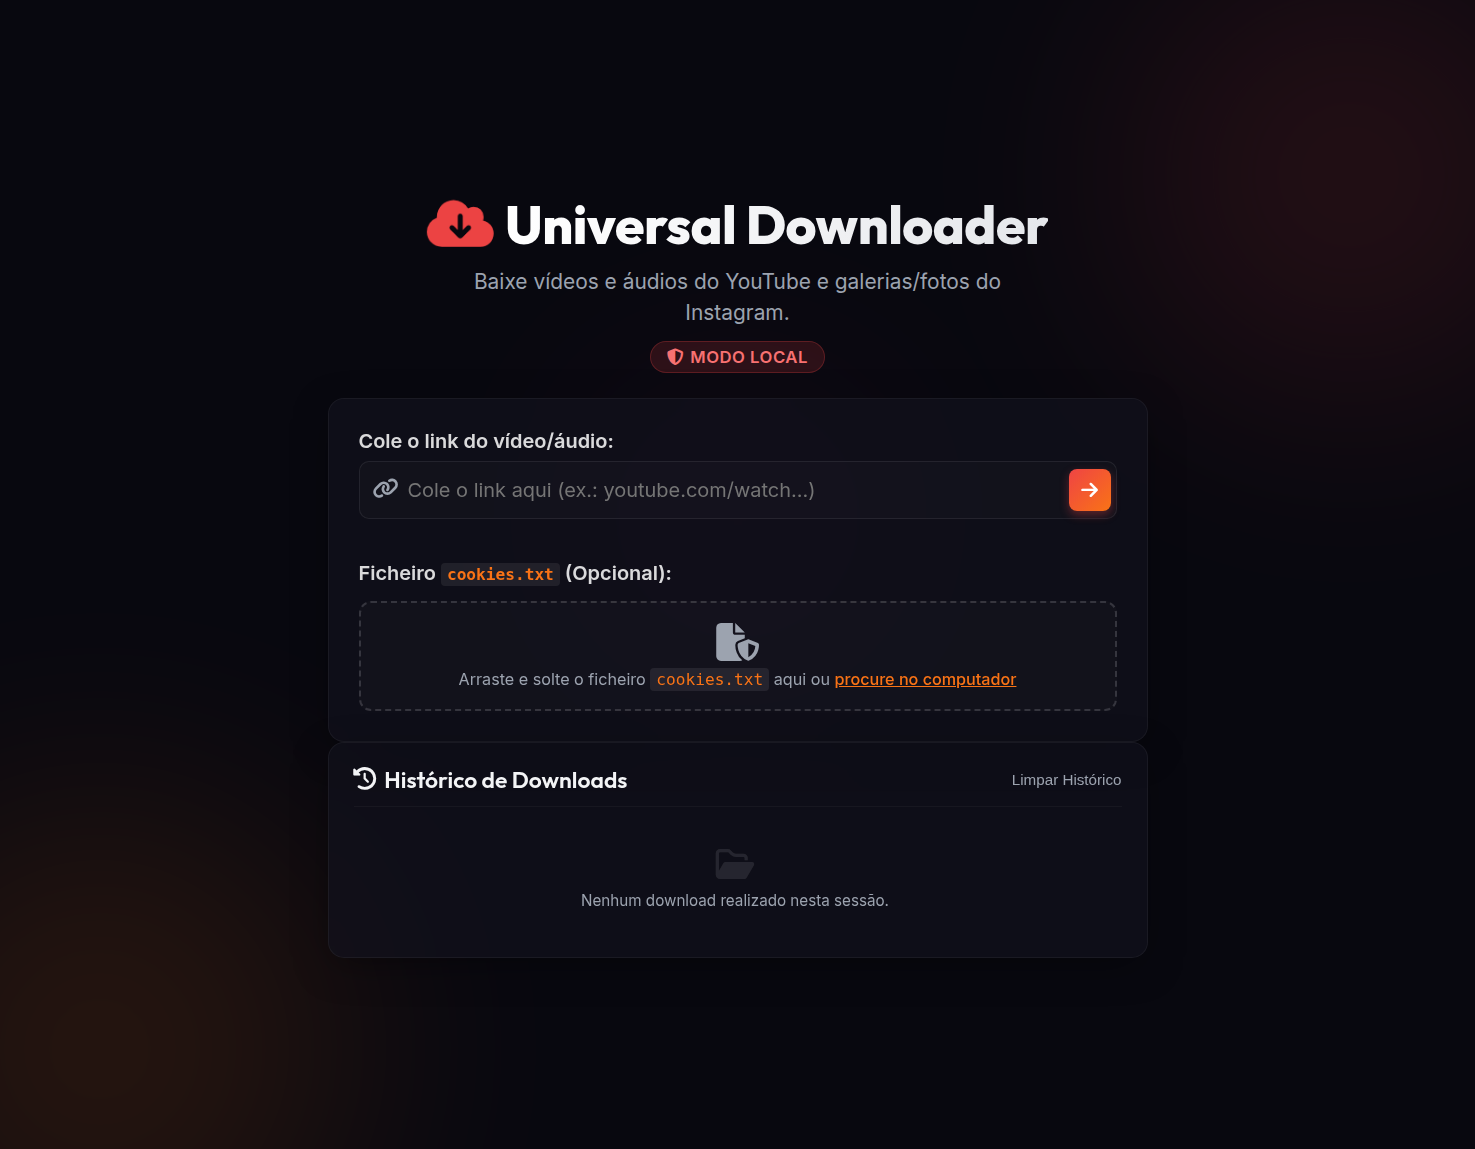
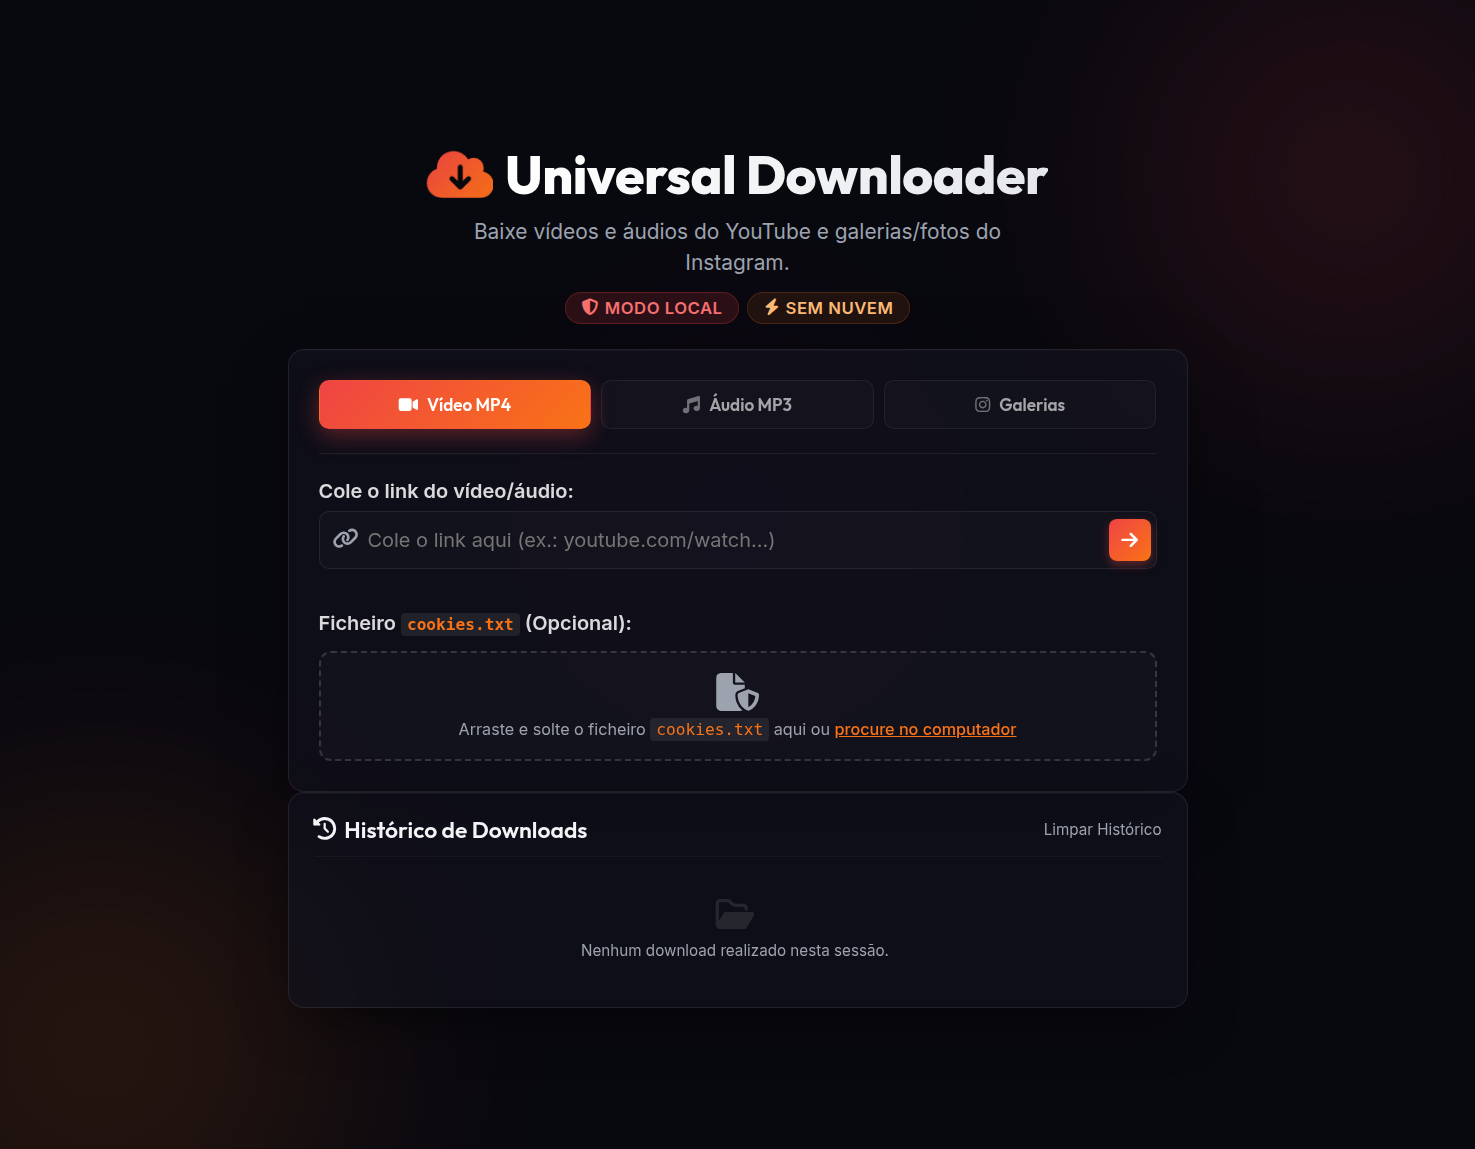
Polish downloader interface for portfolio

diff --git a/assets/css/app.css b/assets/css/app.css
@@ -936,3 +936,90 @@ body {
     .playlist-options { grid-template-columns: 1fr 1fr; }
     .playlist-options label:not(.playlist-reverse) { grid-column: 1 / -1; }
 }
+
+
+/* Portfolio polish: clearer product hierarchy and richer interaction states */
+button, input, select { font: inherit; }
+
+button:focus-visible, input:focus-visible, select:focus-visible, a:focus-visible {
+    outline: 3px solid rgba(249, 115, 22, 0.55);
+    outline-offset: 3px;
+}
+
+.app-container {
+    max-width: 900px;
+}
+
+.logo-icon {
+    background: var(--accent-gradient);
+    -webkit-background-clip: text;
+    -webkit-text-fill-color: transparent;
+}
+
+.header-badges {
+    display: flex;
+    align-items: center;
+    justify-content: center;
+    gap: 8px;
+    flex-wrap: wrap;
+}
+
+.badge-soft {
+    color: #fdba74;
+    background: rgba(249, 115, 22, 0.1);
+    border-color: rgba(249, 115, 22, 0.2);
+}
+
+.glass-card {
+    background: rgba(18, 18, 30, 0.68);
+    border-color: rgba(255, 255, 255, 0.08);
+    box-shadow: 0 18px 60px -18px rgba(0, 0, 0, 0.72), inset 0 1px 0 rgba(255,255,255,0.03);
+}
+
+.download-modes {
+    display: grid;
+    grid-template-columns: repeat(3, 1fr);
+    gap: 10px;
+    padding-bottom: 24px;
+    border-bottom: 1px solid rgba(255, 255, 255, 0.07);
+}
+
+.download-mode {
+    display: inline-flex;
+    align-items: center;
+    justify-content: center;
+    gap: 9px;
+    padding: 13px 12px;
+    border: 1px solid rgba(255, 255, 255, 0.07);
+    border-radius: var(--radius-md);
+    color: rgba(255,255,255,0.62);
+    background: rgba(255,255,255,0.018);
+    font-family: var(--font-display);
+    font-size: 0.9rem;
+    font-weight: 600;
+    transition: var(--transition);
+}
+
+.download-mode i { color: rgba(255,255,255,0.4); }
+
+.download-mode.active {
+    color: #fff;
+    border-color: transparent;
+    background: var(--accent-gradient);
+    box-shadow: 0 7px 22px var(--accent-primary-glow);
+}
+
+.download-mode.active i { color: #fff; }
+
+.download-mode:not(.active):hover {
+    color: #fff;
+    border-color: rgba(249, 115, 22, 0.42);
+    transform: translateY(-2px);
+}
+
+@media (max-width: 620px) {
+    body { padding: 28px 12px; }
+    .glass-card { padding: 22px 18px; }
+    .download-modes { gap: 7px; padding-bottom: 18px; }
+    .download-mode { padding: 11px 6px; font-size: 0.72rem; gap: 5px; }
+}

diff --git a/index.php b/index.php
@@ -20,11 +20,16 @@ $config = require __DIR__ . DIRECTORY_SEPARATOR . 'config.php';
         <header class="app-header">
             <div class="logo"><i class="fa-solid fa-cloud-arrow-down logo-icon" aria-hidden="true"></i><h1>Universal Downloader</h1></div>
             <p class="subtitle">Baixe vídeos e áudios do YouTube e galerias/fotos do Instagram.</p>
-            <span class="badge"><i class="fa-solid fa-shield-halved" aria-hidden="true"></i> Modo Local</span>
+            <div class="header-badges"><span class="badge"><i class="fa-solid fa-shield-halved" aria-hidden="true"></i> Modo Local</span><span class="badge badge-soft"><i class="fa-solid fa-bolt" aria-hidden="true"></i> Sem nuvem</span></div>
         </header>
 
         <main class="main-content">
             <section class="glass-card downloader-card" aria-label="Preparar download">
+                <div class="download-modes" aria-label="Modos suportados">
+                    <span class="download-mode active"><i class="fa-solid fa-video" aria-hidden="true"></i> Vídeo MP4</span>
+                    <span class="download-mode"><i class="fa-solid fa-music" aria-hidden="true"></i> Áudio MP3</span>
+                    <span class="download-mode"><i class="fa-brands fa-instagram" aria-hidden="true"></i> Galerias</span>
+                </div>
                 <div id="urlSection" class="config-section">
                     <div class="form-group">
                         <label for="urlInput" class="form-label">Cole o link do vídeo/áudio:</label>
